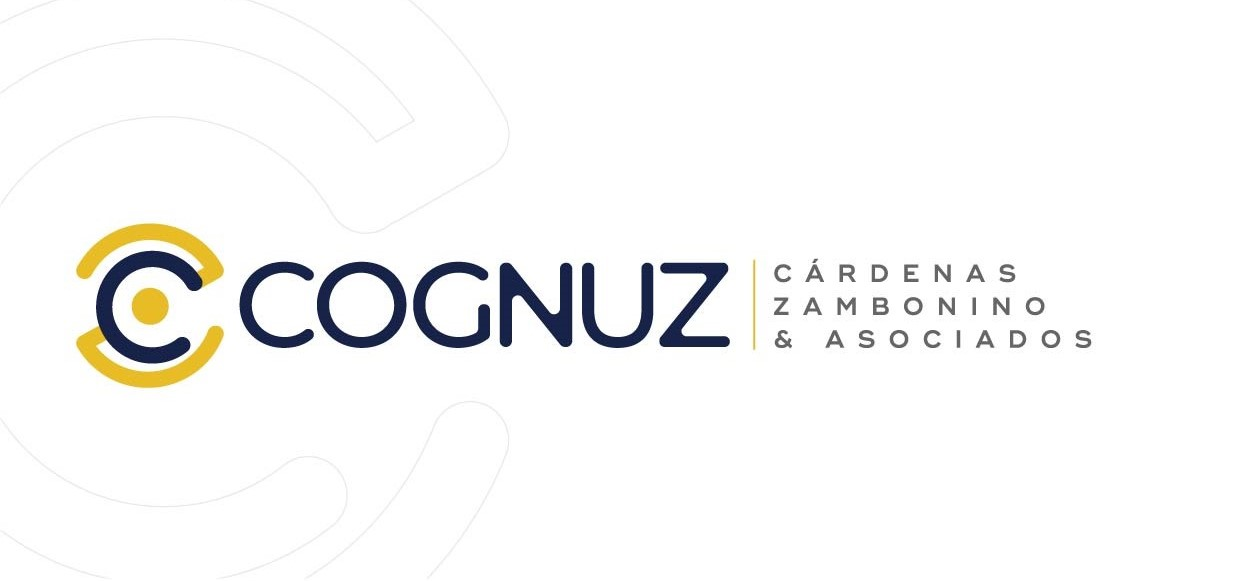
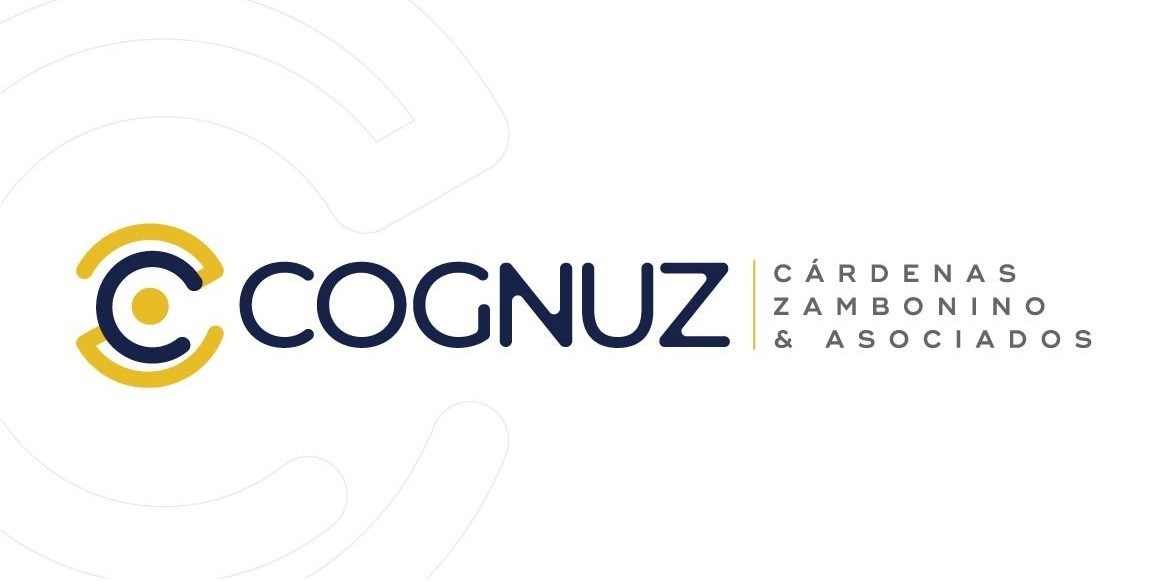
cambios

Changed region(s): [[0.0619, 0.3718, 0.9596, 0.6816]]

diff --git a/index.html b/index.html
@@ -139,8 +139,8 @@
                                 </div>
                                 <p class="card-text">
                                     Nuestros servicios de consultoría están enfocados en las áreas corporativa,
-                                    tributaria, laboral, contractual, y demás aspectos que una empresa requiere para su
-                                    giro ordinario de negocio.
+                                    tributaria, laboral, contractual, y demás aspectos que una empresa
+                                    requiere para su giro ordinario de negocio.
                                 </p>
                                 <a href="#CONSULTORIA" class="btn btn-primary">
                                     VER MÁS
@@ -219,8 +219,9 @@
                                     <h5 class="card-title">PRECIOS DE TRANSFERENCIA</h5>
                                 </div>
                                 <p class="card-text">
-                                    Nuestros servicios de precios de transferencia permiten a las empresas cumplir con
-                                    el principio de plena competencia en sus operaciones con partes relacionadas.
+                                    Nuestros servicios de precios de transferencia permiten a las empresas
+                                    cumplir con el principio de plena competencia en sus operaciones con
+                                    partes relacionadas.
                                 </p>
                                 <a href="#PRECIOS-TRANSFERENCIA" class="btn btn-primary">
                                     VER MÁS
@@ -238,8 +239,8 @@
                                     </h5>
                                 </div>
                                 <p class="card-text">
-                                    Nuestros servicios de planificación fiscal local e internacional, permiten a su
-                                    negocio expandir sus operaciones con una carga tributaria optima.
+                                    Nuestros servicios de planificación fiscal local e internacional, permiten a
+                                    su negocio expandir sus operaciones con una carga tributaria optima.
                                 </p>
                                 <a href="#PLANIFICACION-FISCAL" class="btn btn-primary">
                                     VER MÁS
@@ -260,10 +261,11 @@
                                 </h5>
                             </div>
                             <p class="card-text">
-                                Nuestros servicios de family o ce nos permite analizar la situación personal y fiscal de
-                                familias que están en proceso de migrar de generación, y que por tanto, requieren un
-                                plan de transmisión de activos controlado, así como un mecanismo de control patrimonial
-                                (protocolo familiar) de tal forma que se garantice la continuidad del negocio familiar.
+                                Nuestros servicios de family office nos permite analizar la situación personal
+                                y fiscal de familias que están en proceso de migrar de generación, y que
+                                por tanto, requieren un plan de transmisión de activos controlado, así
+                                como un mecanismo de control patrimonial (protocolo familiar) de tal
+                                forma que se garantice la continuidad del negocio familiar.
                             </p>
                             <a href="#" class="btn btn-primary">
                                 VER MÁS
@@ -304,7 +306,36 @@
         <div id="Alvaro-Felipe" class="modal-window">
             <div>
                 <a href="#AF" title="Close" class="modal-close">Close</a>
-                <h1>Dr. Alvaro Felipe Cárdenas Zambonino PARTNER</h1>
+                <div class="input-group">
+                    <img src="src/img/alvaro-felipe.png" alt="">
+                    <h1>Dr. Alvaro Felipe Cárdenas Zambonino PARTNER</h1>
+                </div>
+                <p class="bold">
+                    Master of Laws in Taxation (LLM) en University of San Francisco California School of Law.
+                    Abogado graduado de la Pontificia Universidad Católica del Ecuador. Cuenta con más de 15 años de
+                    experiencia en materia Legal Tributaria, especialista en sectores de hidrocarburos, energía y
+                    estratégicos.
+                </p>
+                <p>
+                    Alvaro realizó un Diplomado en el Center of American and International Law (formalmente the
+                    Southwestern
+                    Legal Foundation) en la ciudad de Dallas, Texas, USA,
+                    con especialización en International Business Transactions, International Commercial Arbitration &
+                    International Tax Law.
+                </p>
+                <img src="src/img/ico1.jpg" alt="">
+            </div>
+        </div>
+
+
+        <!-- Abg. Sophia Briones Montesdeoca SENIOR -->
+        <div id="Sophia-Briones" class="modal-window">
+            <div>
+                <a href="#SB" title="Close" class="modal-close">Close</a>
+                <div class="input-group">
+                    <img src="src/img/sofia-briones.jpeg" alt="">
+                    <h1>Abg. Sophia Briones Montesdeoca SENIOR</h1>
+                </div>
                 <p class="bold">
                     Abogada por la Pontificia Universidad Católica del Ecuador. Con gran experiencia en el sector de
                     Recursos Naturales no Renovables especialmente en el área minera. Durante su carrera en el sector
@@ -324,35 +355,17 @@
         </div>
 
 
-        <!-- Abg. Sophia Briones Montesdeoca SENIOR -->
-        <div id="Sophia-Briones" class="modal-window">
-            <div>
-                <a href="#SB" title="Close" class="modal-close">Close</a>
-                <h1>Abg. Sophia Briones Montesdeoca SENIOR</h1>
-                <p class="bold">
-                    Master of Laws in Taxation (LLM) en University of San Francisco California School of Law.
-                    Abogado graduado de la Pontificia Universidad Católica del Ecuador. Cuenta con más de 15 años de
-                    experiencia en materia Legal Tributaria, especialista en sectores de hidrocarburos, energía y
-                    estratégicos.
-                </p>
-                <p>
-                    Álvaro realizó un Diplomado en el Center of American and International Law (formalmente the
-                    Southwestern
-                    Legal Foundation) en la ciudad de Dallas, Texas, USA,
-                    con especialización en International Business Transactions, International Commercial Arbitration &
-                    International Tax Law.
-                </p>
-                <img src="src/img/ico1.jpg" alt="">
-            </div>
-        </div>
-
-
         <!-- Ing. Karilin Arenas OF COUNSEL -->
         <div id="Karilin-Arenas" class="modal-window">
             <div>
                 <a href="#KA" title="Close" class="modal-close">Close</a>
-                <h1>Ing. Karilin Arenas OF COUNSEL</h1>
-                <h2>PRECIOS DE TRANSFERENCIA</h2>
+                <div class="input-group">
+                    <img src="src/img/karin.jpg" alt="">
+                    <div class="det">
+                        <h1>Ing. Karilin Arenas OF COUNSEL</h1>
+                        <h2>PRECIOS DE TRANSFERENCIA</h2>
+                    </div>
+                </div>
                 <p class="bold">
                     Magíster en la Universidad Esan con mención en finanzas (Lima – Perú) en segundo puesto, Magister en
                     Derecho con mención en Planificación Tributaria y Fiscalidad Internacional en la Universidad Andina
@@ -392,9 +405,8 @@
                     Guayaquil.
                 </p>
                 <p>
-
-                    Con especializaciones en tributación y Auditoría Externa con más de 24 años de ejercicio
-                    profesional, liderando equipos en empresas de auditoría externa (big 4, tales como PwC y E&Y), así
+                    Con especializaciones en tributación y Auditoria Externa con más de 24 años de ejercicio
+                    profesional, liderando equipos en empresas de auditoria externa (big 4, tales como PwC y E&Y), así
                     como como funcionaria de la Administración Tributaria. Perito en Contabilidad, Finanzas y
                     Tributación fiscal, acreditada por el Consejo de la Judicatura.
                 </p>
@@ -480,7 +492,7 @@
                     Nuestros servicios de recuperación de impuestos permiten a nuestros
                     clientes, el recuperar la liquidez que queda atrapada en manos de las
                     autoridades fiscales, y evita que prescriban los plazos legales para recuperar
-                    los saldos a favor de impuestos pagados en exceso o indebidamente.
+                    los saldos a favor de impuestos pagados en exceso o indebidamente..
                 </p>
                 <img src="src/img/ico1.jpg" alt="">
             </div>
@@ -513,12 +525,14 @@
                 <a href="#pro-precioTrans" title="Close" class="modal-close">Close</a>
                 <h1>PRECIOS DE TRANSFERENCIA</h1>
                 <p>
-                    Nuestros servicios de planificación fiscal local e internacional, permiten a su negocio expandir sus
-                    operaciones con una carga tributaria optima, tomando ventajas competitivas que la legislación local
-                    o comparada permiten, todo dentro de un ambiente de seguridad jurídica y legalidad que permitan
-                    realizar negocios de forma eficiente. Este servicio puede ser aplicado a negocios en marcha, o a
-                    nuevas líneas de negocio o emprendimientos nuevos que se pretendan realizar en una o varias
-                    jurisdicciones.
+                    Nuestros servicios de precios de transferencia permiten a las empresas
+                    cumplir con el principio de plena competencia en sus operaciones con
+                    partes relacionadas, y presentar en los plazos previstos sus Informes
+                    Integrales, Anexos OPRE, así como presupuestar los rangos de precios en
+                    los que operaciones nuevas pueden ser realizadas en operaciones
+                    vinculadas. Adicionalmente, negociamos consultas de valoración previa
+                    (Advanced Pricing Agreements) con la autoridad fiscal a efectos de evitar
+                    contingencias fiscales en el futuro.
                 </p>
                 <img src="src/img/ico1.jpg" alt="">
             </div>

diff --git a/src/css/index.css b/src/css/index.css
@@ -18,12 +18,13 @@ nav {
 
 nav .container-fluid {
     background-color: #ffffff !important;
+    justify-content: center !important;
 }
 
 /* nav .navbar-brand{
 } */
 nav .navbar-brand img {
-    height: 200px;
+    max-height: 45vh;
 }
 
 .bg1 {
@@ -31,7 +32,7 @@ nav .navbar-brand img {
     color: var(--letters);
     width: 100%;
     margin: 0 !important;
-    padding: 20px 0 !important;
+    padding: 50px 0 !important;
     /* display: none; */
 }
 
@@ -302,7 +303,7 @@ footer {
 
     &>div {
         width: 80vw;
-        height: 90vh;
+        max-height: 90vh;
         overflow-y: scroll;
         position: absolute;
         top: 50%;
@@ -314,6 +315,7 @@ footer {
     & img{
         max-width: 100%;
         max-height: 30vh;
+        border-radius: 8px !important;
     }
 
     .bold {
@@ -324,10 +326,18 @@ footer {
     & h1 {
         font-size: 2rem;
         margin: 0 0 15px !important;
+        min-width: 50%;
+        max-width: 40%;
         color: var(--background);
+        padding: 20px !important;
+        line-break: auto;
+        justify-items: baseline;
     }
     & h2 {
+        min-width: 50%;
+        max-width: 60%;
         font-size: 1rem;
+        padding: 0 20px !important;
         margin: 0 0 15px !important;
         color: var(--background);
     }

diff --git a/src/css/index1024.css b/src/css/index1024.css
@@ -2,4 +2,10 @@
     .productos2 .pro2 .card2 .ct {
         left:60px;
     }
+    nav {
+        height: auto;
+    }
+    nav .navbar-brand img {
+        max-width: 100vw;
+    }
 }

diff --git a/src/css/index1280.css b/src/css/index1280.css
@@ -5,4 +5,9 @@
     .bg1 .row .somos {
         width: 80vw;
     }
+    .modal-window {
+        & h1{
+            max-width: 100%;
+        }
+    }
 }
